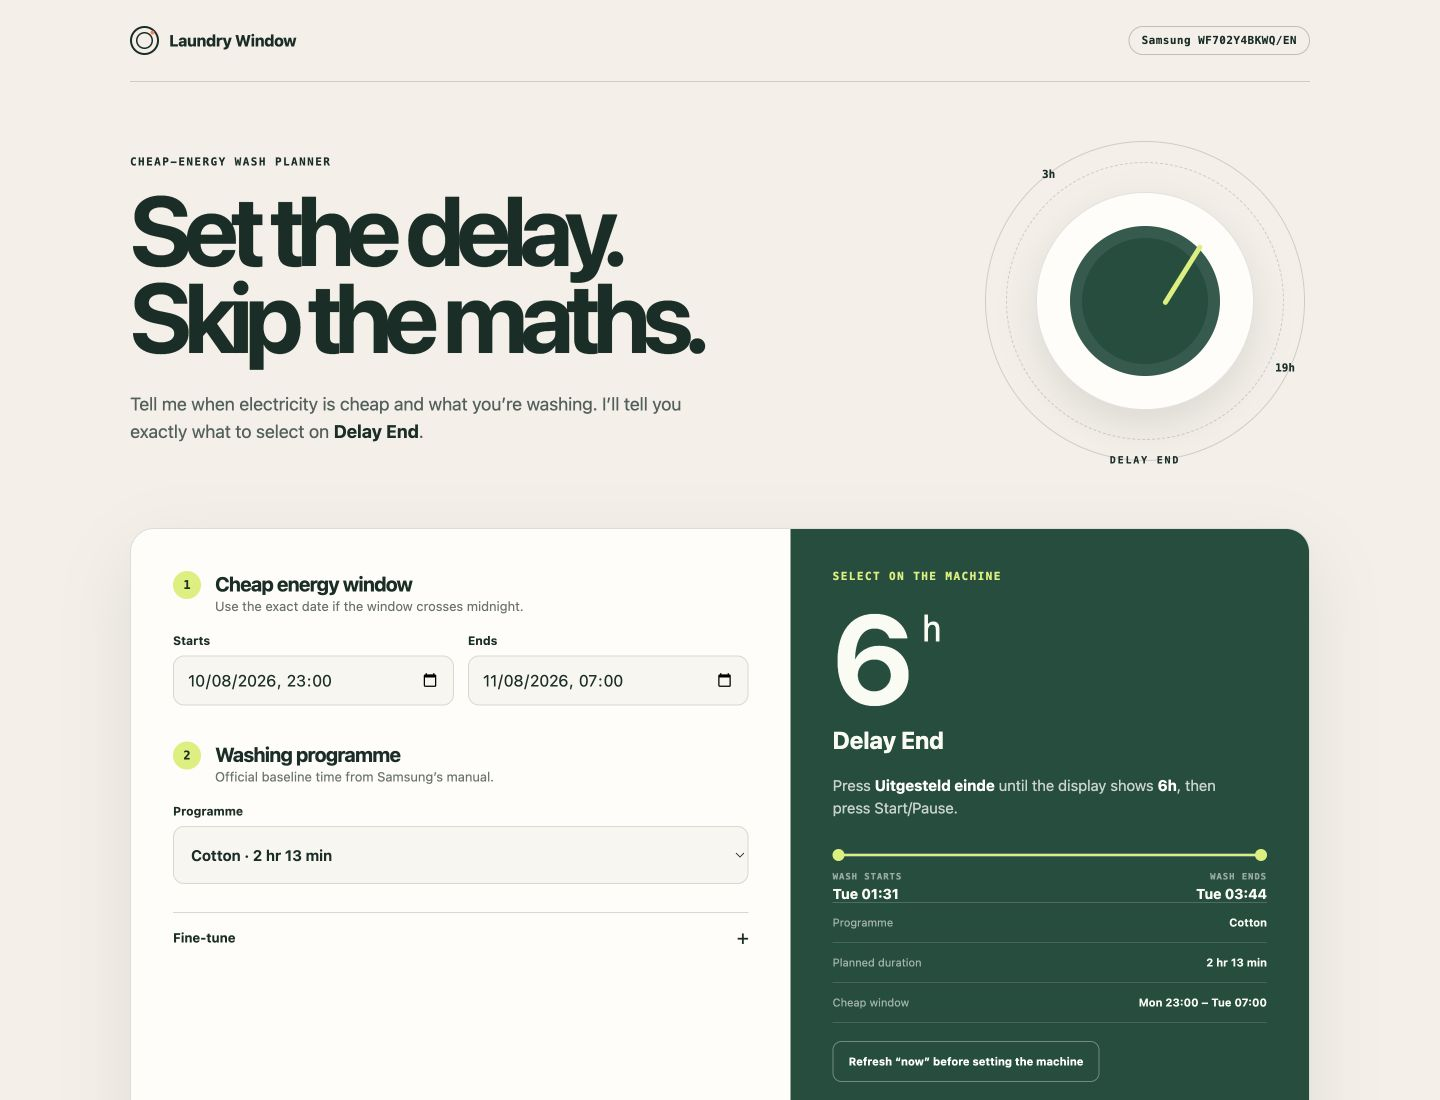
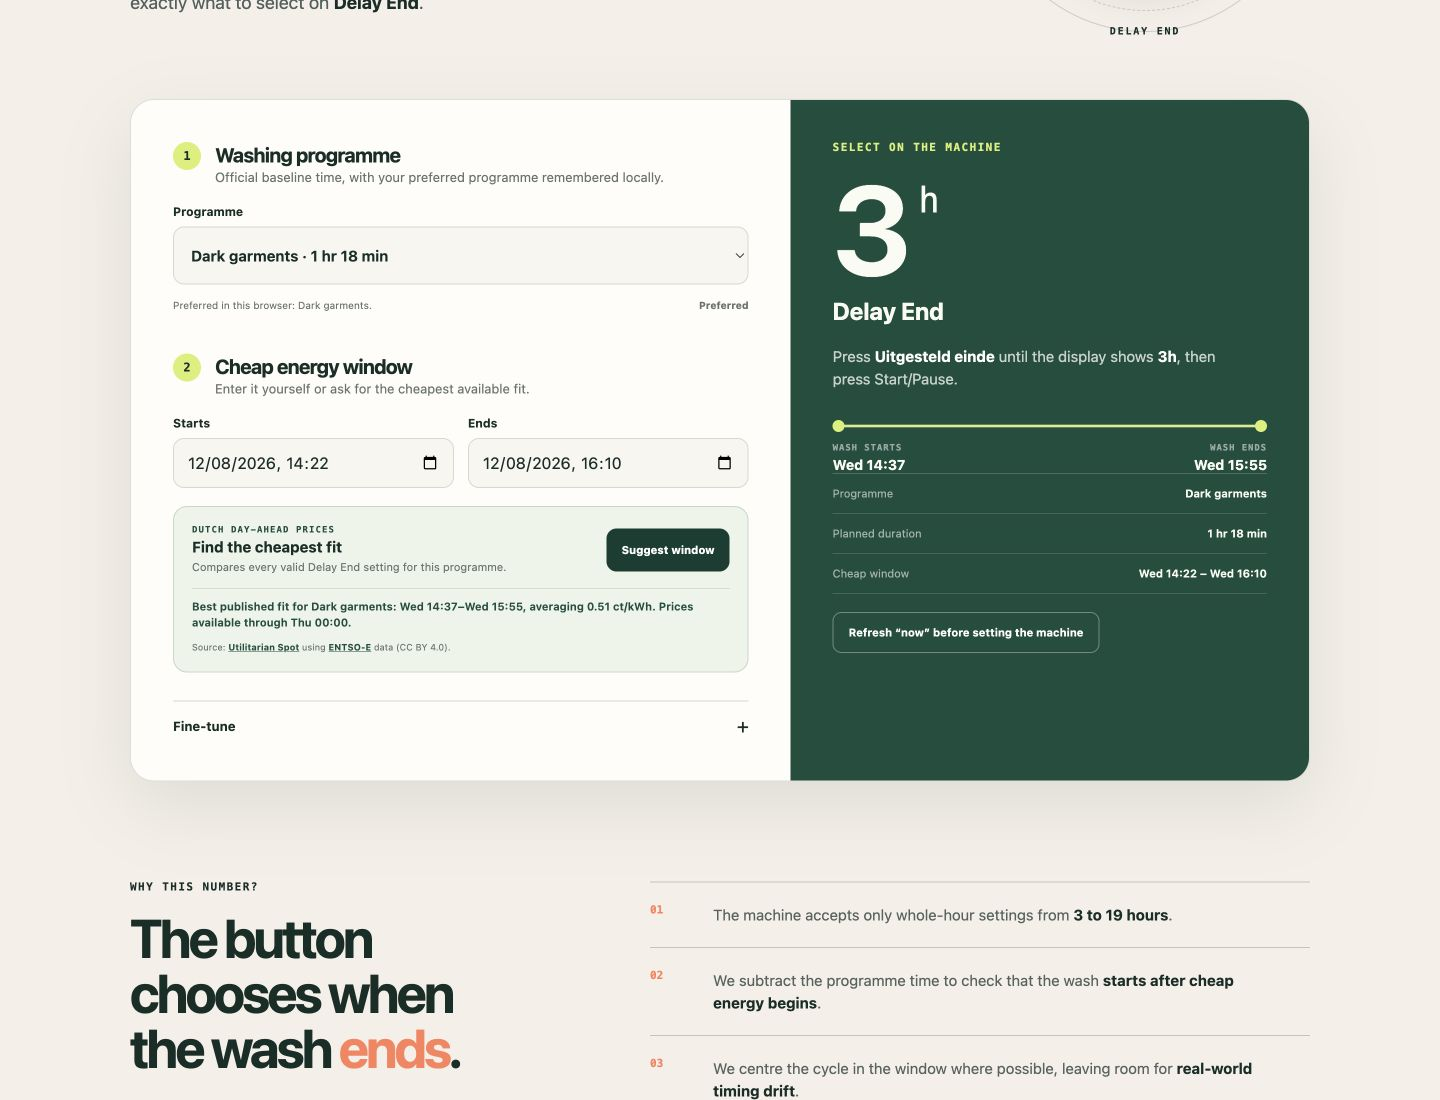
Suggest cheapest wash from live power prices

diff --git a/html/app.js b/html/app.js
@@ -22,9 +22,17 @@
   const form = $("#planner-form");
   const programme = $("#programme");
   const measured = $("#measured-time");
+  const marketButton = $("#suggest-market-window");
+  const marketPrices = window.LaundryMarketPrices;
   let overrides = {};
+  let preferredProgramId = "dark";
+  let suggestionActive = false;
 
   try { overrides = JSON.parse(localStorage.getItem("washer-program-overrides") || "{}"); } catch (_) { overrides = {}; }
+  try {
+    const savedPreference = localStorage.getItem("washer-preferred-program");
+    if (PROGRAMS.some((item) => item.id === savedPreference)) preferredProgramId = savedPreference;
+  } catch (_) {}
 
   function inputValue(date) {
     return new Date(date.getTime() - date.getTimezoneOffset() * minute).toISOString().slice(0, 16);
@@ -60,6 +68,11 @@
     return PROGRAMS.find((item) => item.id === programme.value) || PROGRAMS[0];
   }
 
+  function cycleMinutes() {
+    const selected = currentProgram();
+    return (overrides[selected.id] || selected.minutes) + ($("#prewash").checked ? 18 : 0);
+  }
+
   function fillProgrammes() {
     ["Dial programmes", "Quick wash button"].forEach((groupName) => {
       const group = document.createElement("optgroup");
@@ -72,7 +85,7 @@
       });
       programme.append(group);
     });
-    programme.value = "cotton";
+    programme.value = preferredProgramId;
 
     PROGRAMS.filter((item) => item.group === "Dial programmes").forEach((item) => {
       const row = document.createElement("div");
@@ -92,6 +105,79 @@
     $("#measured-note").textContent = `Saved on this device for ${selected.name}.`;
   }
 
+  function updatePreferenceControls() {
+    const preferred = PROGRAMS.find((item) => item.id === preferredProgramId) || PROGRAMS.find((item) => item.id === "dark");
+    const button = $("#set-preferred-programme");
+    const selectedIsPreferred = programme.value === preferred.id;
+    $("#preferred-programme-label").textContent = `Preferred in this browser: ${preferred.name}.`;
+    button.textContent = selectedIsPreferred ? "Preferred" : "Make selected preferred";
+    button.disabled = selectedIsPreferred;
+  }
+
+  function savePreferredProgram() {
+    preferredProgramId = programme.value;
+    try { localStorage.setItem("washer-preferred-program", preferredProgramId); } catch (_) {}
+    updatePreferenceControls();
+  }
+
+  function setMarketStatus(message, state = "") {
+    const status = $("#market-status");
+    status.textContent = message;
+    status.dataset.state = state;
+  }
+
+  function invalidateSuggestion() {
+    if (!suggestionActive) return;
+    suggestionActive = false;
+    setMarketStatus("The settings changed. Ask again to recalculate the cheapest fit.");
+  }
+
+  function marketPriceText(pricePerMwh) {
+    return new Intl.NumberFormat("en-GB", { minimumFractionDigits: 1, maximumFractionDigits: 2 }).format(pricePerMwh / 10);
+  }
+
+  async function suggestMarketWindow() {
+    const planning = new Date($("#planning-time").value);
+    if (Number.isNaN(planning.getTime())) {
+      setMarketStatus("Choose a valid machine-setting time first.", "error");
+      return;
+    }
+
+    marketButton.disabled = true;
+    marketButton.textContent = "Checking prices…";
+    setMarketStatus("Fetching the latest published Dutch day-ahead prices…");
+
+    try {
+      const response = await fetch(marketPrices.API_URL);
+      if (!response.ok) throw new Error(`Price service returned ${response.status}`);
+      const points = await response.json();
+      const best = marketPrices.findCheapestSchedule(points, planning, cycleMinutes());
+      const intervals = marketPrices.normalisePricePoints(points);
+      if (!intervals.length) throw new Error("The price feed returned no usable values");
+
+      if (!best) {
+        setMarketStatus("No complete wash fits the currently published prices and the machine’s 3–19 hour range. If tomorrow is not available yet, try again after 13:00.", "error");
+        return;
+      }
+
+      const margin = Number($("#safety-margin").value);
+      const windowStart = new Date(best.start - margin * minute);
+      const windowEnd = new Date(best.end + margin * minute);
+      $("#cheap-start").value = inputValue(windowStart);
+      $("#cheap-end").value = inputValue(windowEnd);
+      suggestionActive = true;
+      calculate();
+
+      const availableUntil = new Date(intervals[intervals.length - 1].end);
+      setMarketStatus(`Best published fit for ${currentProgram().name}: ${momentText(new Date(best.start))}–${momentText(new Date(best.end))}, averaging ${marketPriceText(best.average)} ct/kWh. Prices available through ${momentText(availableUntil)}.`, "success");
+    } catch (_) {
+      setMarketStatus("Live prices could not be loaded. Manual window entry still works; please try the suggestion again later.", "error");
+    } finally {
+      marketButton.disabled = false;
+      marketButton.textContent = "Suggest window";
+    }
+  }
+
   function overlap(start, end, windowStart, windowEnd) {
     return Math.max(0, (Math.min(end, windowEnd) - Math.max(start, windowStart)) / minute);
   }
@@ -102,14 +188,14 @@
     const windowEnd = new Date($("#cheap-end").value);
     const selected = currentProgram();
     const margin = Number($("#safety-margin").value);
-    const cycleMinutes = (overrides[selected.id] || selected.minutes) + ($("#prewash").checked ? 18 : 0);
+    const plannedMinutes = cycleMinutes();
 
     if ([planning, windowStart, windowEnd].some((date) => Number.isNaN(date.getTime()))) return renderError("Choose a valid date and time.");
     if (windowEnd <= windowStart) return renderError("The cheap-price end must be after its start.");
 
     const schedules = Array.from({ length: 17 }, (_, index) => index + 3).map((delayHours) => {
       const end = new Date(planning.getTime() + delayHours * hour);
-      const start = new Date(end.getTime() - cycleMinutes * minute);
+      const start = new Date(end.getTime() - plannedMinutes * minute);
       return { delayHours, start, end, overlapMinutes: overlap(start, end, windowStart, windowEnd) };
     });
 
@@ -120,16 +206,16 @@
     if (fitting.length) {
       const centre = (windowStart.getTime() + windowEnd.getTime()) / 2;
       fitting.sort((a, b) => Math.abs((a.start.getTime() + a.end.getTime()) / 2 - centre) - Math.abs((b.start.getTime() + b.end.getTime()) / 2 - centre));
-      return renderSchedule(fitting[0], selected, cycleMinutes, windowStart, windowEnd, true);
+      return renderSchedule(fitting[0], selected, plannedMinutes, windowStart, windowEnd, true);
     }
 
     schedules.sort((a, b) => b.overlapMinutes - a.overlapMinutes);
     let message = "No whole-hour Delay End setting keeps this complete cycle inside the window.";
     const windowMinutes = (windowEnd - windowStart) / minute;
-    if (cycleMinutes + margin * 2 > windowMinutes) message = "This programme is longer than the cheap-price window (including your margin).";
+    if (plannedMinutes + margin * 2 > windowMinutes) message = "This programme is longer than the cheap-price window (including your margin).";
     else if (windowEnd.getTime() < planning.getTime() + 3 * hour) message = "This window ends before the machine’s minimum 3-hour Delay End setting.";
     else if (windowStart.getTime() > planning.getTime() + 19 * hour) message = "This window starts beyond the machine’s 19-hour Delay End limit.";
-    renderSchedule(schedules[0], selected, cycleMinutes, windowStart, windowEnd, false, message, Math.round(schedules[0].overlapMinutes / cycleMinutes * 100));
+    renderSchedule(schedules[0], selected, plannedMinutes, windowStart, windowEnd, false, message, Math.round(schedules[0].overlapMinutes / plannedMinutes * 100));
   }
 
   function renderError(message) {
@@ -163,6 +249,7 @@
   }
 
   function useNow() {
+    invalidateSuggestion();
     $("#planning-time").value = inputValue(new Date());
     calculate();
   }
@@ -174,6 +261,7 @@
   $("#cheap-start").value = inputValue(cheap.start);
   $("#cheap-end").value = inputValue(cheap.end);
   updateMeasuredField();
+  updatePreferenceControls();
 
   $("#advanced-toggle").addEventListener("click", () => {
     const panel = $("#advanced-panel");
@@ -182,15 +270,18 @@
     $("#advanced-toggle span").textContent = panel.hidden ? "+" : "−";
   });
   $("#use-now").addEventListener("click", useNow);
-  programme.addEventListener("change", () => { updateMeasuredField(); calculate(); });
+  $("#set-preferred-programme").addEventListener("click", savePreferredProgram);
+  marketButton.addEventListener("click", suggestMarketWindow);
+  programme.addEventListener("change", () => { invalidateSuggestion(); updateMeasuredField(); updatePreferenceControls(); calculate(); });
   measured.addEventListener("input", () => {
+    invalidateSuggestion();
     const selected = currentProgram();
     const value = Number(measured.value);
     if (measured.value && value > 0) overrides[selected.id] = Math.round(value); else delete overrides[selected.id];
     try { localStorage.setItem("washer-program-overrides", JSON.stringify(overrides)); } catch (_) {}
     calculate();
   });
-  form.addEventListener("input", (event) => { if (event.target !== measured) calculate(); });
+  form.addEventListener("input", (event) => { if (event.target !== measured) { invalidateSuggestion(); calculate(); } });
   form.addEventListener("submit", (event) => event.preventDefault());
   calculate();
 })();

diff --git a/html/styles.css b/html/styles.css
@@ -56,6 +56,22 @@ input, select { width: 100%; min-height: 50px; color: var(--ink); background: #f
 input:focus, select:focus { border-color: var(--green); box-shadow: 0 0 0 3px rgba(23,78,62,.12); }
 .programme-select { display: block; }
 .programme-select select { min-height: 58px; font-weight: 650; font-size: 15px; }
+.programme-preference { margin-top: 9px; display: flex; align-items: center; justify-content: space-between; gap: 14px; color: var(--muted); font-size: 10px; line-height: 1.4; }
+.programme-preference button { flex: 0 0 auto; padding: 5px 0; border: 0; color: var(--green); background: transparent; font-size: 10px; font-weight: 750; }
+.programme-preference button:disabled { color: var(--muted); cursor: default; }
+.market-suggestion { margin-top: 18px; padding: 18px; display: grid; grid-template-columns: 1fr auto; align-items: center; gap: 10px 18px; border: 1px solid rgba(23,78,62,.18); border-radius: 14px; background: #edf4e8; }
+.market-heading { display: grid; gap: 4px; }
+.market-heading > span { color: var(--green); font: 700 9px/1 var(--font-geist-mono), monospace; letter-spacing: .12em; }
+.market-heading strong { font-size: 15px; }
+.market-heading p { margin: 0; color: var(--muted); font-size: 11px; line-height: 1.4; }
+.market-suggestion button { min-height: 43px; padding: 0 15px; border: 0; border-radius: 10px; color: white; background: var(--green); font-size: 11px; font-weight: 750; }
+.market-suggestion button:hover { background: #0f3e31; }
+.market-suggestion button:disabled { cursor: wait; opacity: .65; }
+.market-status { grid-column: 1 / -1; margin: 3px 0 0; padding-top: 10px; border-top: 1px solid rgba(23,78,62,.14); color: #53655e; font-size: 11px; line-height: 1.45; }
+.market-status[data-state="success"] { color: var(--green); font-weight: 650; }
+.market-status[data-state="error"] { color: #8b3c29; }
+.market-suggestion > small { grid-column: 1 / -1; color: var(--muted); font-size: 9px; line-height: 1.4; }
+.market-suggestion a { color: var(--green); font-weight: 700; }
 .advanced-toggle { width: 100%; margin-top: 28px; padding: 17px 0 5px; display: flex; justify-content: space-between; color: var(--ink); background: transparent; border: 0; border-top: 1px solid var(--line); font-size: 13px; font-weight: 700; text-align: left; }
 .advanced-toggle span { font-size: 20px; line-height: .7; font-weight: 400; }
 .advanced-panel { margin-top: 14px; padding: 22px; border-radius: 14px; background: #eeece4; display: grid; gap: 20px; }
@@ -157,6 +173,8 @@ footer { width: min(1180px, calc(100% - 40px)); margin: 0 auto; padding: 28px 0 
   .site-header { padding: 18px 0; }.model-chip { display: none; }
   .hero { min-height: auto; grid-template-columns: 1fr; padding: 46px 0; }.hero h1 { font-size: 58px; }.intro { font-size: 16px; margin-top: 24px; }.dial-art { display: none; }
   .planner { border-radius: 17px; margin-bottom: 70px; }.input-panel, .result-panel { padding: 27px 22px; }.field-grid { grid-template-columns: 1fr; }.programme-heading { margin-top: 30px; }
+  .programme-preference { align-items: flex-start; }
+  .market-suggestion { grid-template-columns: 1fr; }.market-suggestion button { width: 100%; }.market-status, .market-suggestion > small { grid-column: 1; }
   .result-panel { min-height: 600px; }.delay-readout strong { font-size: 110px; }
   .how-it-works { margin-bottom: 60px; }.how-it-works h2 { font-size: 38px; }
   .reference-grid { grid-template-columns: 1fr; }.reference-grid div:nth-child(n) { padding-left: 0; border-left: 0; }

diff --git a/html/index.html b/html/index.html
@@ -7,6 +7,7 @@
   <meta name="theme-color" content="#174e3e">
   <title>Laundry Window · Samsung Delay End calculator</title>
   <link rel="stylesheet" href="styles.css">
+  <script src="market-prices.js" defer></script>
   <script src="app.js" defer></script>
 </head>
 <body>
@@ -37,18 +38,33 @@
       <form class="input-panel" id="planner-form">
         <div class="step-heading">
           <span>1</span>
-          <div><h2>Cheap energy window</h2><p>Use the exact date if the window crosses midnight.</p></div>
+          <div><h2>Washing programme</h2><p>Official baseline time, with your preferred programme remembered locally.</p></div>
+        </div>
+        <label class="programme-select"><span>Programme</span><select id="programme"></select></label>
+        <div class="programme-preference">
+          <span id="preferred-programme-label"></span>
+          <button id="set-preferred-programme" type="button">Make selected preferred</button>
+        </div>
+
+        <div class="step-heading programme-heading">
+          <span>2</span>
+          <div><h2>Cheap energy window</h2><p>Enter it yourself or ask for the cheapest available fit.</p></div>
         </div>
         <div class="field-grid">
           <label><span>Starts</span><input id="cheap-start" type="datetime-local" required></label>
           <label><span>Ends</span><input id="cheap-end" type="datetime-local" required></label>
         </div>
 
-        <div class="step-heading programme-heading">
-          <span>2</span>
-          <div><h2>Washing programme</h2><p>Official baseline time from Samsung’s manual.</p></div>
+        <div class="market-suggestion">
+          <div class="market-heading">
+            <span>DUTCH DAY-AHEAD PRICES</span>
+            <strong>Find the cheapest fit</strong>
+            <p>Compares every valid Delay End setting for this programme.</p>
+          </div>
+          <button id="suggest-market-window" type="button">Suggest window</button>
+          <p class="market-status" id="market-status" aria-live="polite">Fetched only when you ask. Market price excludes tax and supplier fees.</p>
+          <small>Source: <a href="https://spot.utilitarian.io/developer/" rel="noreferrer">Utilitarian Spot</a> using <a href="https://transparency.entsoe.eu/" rel="noreferrer">ENTSO-E</a> data (CC BY 4.0).</small>
         </div>
-        <label class="programme-select"><span>Programme</span><select id="programme"></select></label>
 
         <button class="advanced-toggle" id="advanced-toggle" type="button" aria-expanded="false">Fine-tune <span aria-hidden="true">+</span></button>
         <div class="advanced-panel" id="advanced-panel" hidden>

diff --git a/html/market-prices.js b/html/market-prices.js
@@ -1,0 +1,57 @@
+(() => {
+  "use strict";
+
+  const API_URL = "https://spot.utilitarian.io/electricity/NL/latest/";
+  const minute = 60000;
+  const hour = 60 * minute;
+
+  function normalisePricePoints(rawPoints) {
+    const points = (Array.isArray(rawPoints) ? rawPoints : [])
+      .map((point) => ({ start: new Date(point.timestamp).getTime(), value: Number(point.value) }))
+      .filter((point) => Number.isFinite(point.start) && Number.isFinite(point.value))
+      .sort((a, b) => a.start - b.start)
+      .filter((point, index, all) => index === 0 || point.start !== all[index - 1].start);
+
+    const steps = points.slice(1).map((point, index) => point.start - points[index].start).filter((step) => step > 0);
+    const sortedSteps = [...steps].sort((a, b) => a - b);
+    const fallbackStep = sortedSteps.length ? sortedSteps[Math.floor(sortedSteps.length / 2)] : 15 * minute;
+
+    return points.map((point, index) => ({
+      ...point,
+      end: points[index + 1]?.start || point.start + fallbackStep
+    }));
+  }
+
+  function averagePrice(start, end, intervals) {
+    const duration = end - start;
+    let covered = 0;
+    let weightedPrice = 0;
+
+    intervals.forEach((interval) => {
+      const overlap = Math.max(0, Math.min(end, interval.end) - Math.max(start, interval.start));
+      covered += overlap;
+      weightedPrice += interval.value * overlap;
+    });
+
+    if (duration <= 0 || covered < duration - 1) return null;
+    return weightedPrice / duration;
+  }
+
+  function findCheapestSchedule(rawPoints, planningDate, cycleMinutes) {
+    const planning = new Date(planningDate).getTime();
+    if (!Number.isFinite(planning) || !Number.isFinite(cycleMinutes) || cycleMinutes <= 0) return null;
+
+    const intervals = normalisePricePoints(rawPoints);
+    const candidates = Array.from({ length: 17 }, (_, index) => index + 3).map((delayHours) => {
+      const end = planning + delayHours * hour;
+      const start = end - cycleMinutes * minute;
+      return { delayHours, start, end, average: averagePrice(start, end, intervals) };
+    }).filter((candidate) => candidate.average !== null);
+
+    candidates.sort((a, b) => a.average - b.average || a.delayHours - b.delayHours);
+    return candidates[0] || null;
+  }
+
+  const scope = typeof window === "undefined" ? globalThis : window;
+  scope.LaundryMarketPrices = { API_URL, findCheapestSchedule, normalisePricePoints };
+})();

diff --git a/README.md b/README.md
@@ -4,10 +4,10 @@
 
 A tiny, dependency-free planner for the **Samsung WF702Y4BKWQ/EN** washing machine. Enter a cheap electricity-price window and a washing programme; Laundry Window calculates the whole-hour value to select with the machine's **Delay End / Uitgesteld einde** button.
 
-The calculator runs entirely in the browser. It has no analytics, cookies, server-side code, build step, or package manager. The footer loads the optional Buy Me a Coffee button and its Bree Serif font from third-party CDNs. All publicly served files live under [`html/`](html/); repository documentation, tests, screenshots, and deployment configuration stay outside the web root.
+The calculator runs entirely in the browser. It has no analytics, cookies, server-side code, build step, or package manager. On request, it downloads the latest Dutch day-ahead market-price feed to suggest the cheapest available schedule. The footer loads the optional Buy Me a Coffee button and its Bree Serif font from third-party CDNs. All publicly served files live under [`html/`](html/); repository documentation, tests, screenshots, and deployment configuration stay outside the web root.
 
 > [!NOTE]
-> The footer support button loads JavaScript from `cdnjs.buymeacoffee.com`, loads a font from Google Fonts, and links to `buymeacoffee.com/roels`. The calculator itself does not send your planning data anywhere.
+> The price button fetches the same public Netherlands feed URL for every visitor; programme, timing, and planning values are never added to that request or sent elsewhere. As with any web request, the price provider receives ordinary connection metadata such as the visitor's IP address. The footer support button separately loads JavaScript from `cdnjs.buymeacoffee.com`, loads a font from Google Fonts, and links to `buymeacoffee.com/roels`.
 
 ## Screenshots
 
@@ -26,7 +26,17 @@ The calculator runs entirely in the browser. It has no analytics, cookies, serve
 - A configurable safety margin around the cheap-price window
 - Prewash, which Samsung documents as adding approximately 18 minutes
 - Per-programme measured-time overrides, stored only in the current browser
+- A preferred programme, initially **Dark garments**, stored only in the current browser
+- An optional live suggestion based on published Dutch day-ahead prices
 - A closest-fit suggestion when no setting keeps the complete wash inside the window
+
+## Live market-price suggestions
+
+The **Suggest window** button downloads today’s—and tomorrow’s, once published—Netherlands day-ahead prices from [Utilitarian Spot](https://spot.utilitarian.io/developer/). Its values originate from the ENTSO-E Transparency Platform and are supplied in `€/MWh` at the market’s available resolution, currently 15 minutes for the Netherlands.
+
+Laundry Window evaluates the real duration of the selected programme against every whole-hour Delay End choice from 3–19 hours. It recommends the complete cycle with the lowest duration-weighted average market price, then fills the manual window fields so the normal calculator remains the source of the displayed washer setting.
+
+The displayed figure is the wholesale market component, converted to cents per kWh. It excludes energy tax, VAT, supplier markups, and other contract costs. Fixed additions do not change which interval is cheapest, but users should still treat the result as a planning suggestion rather than an exact retail-price quote. The external feed is best-effort; manual entry remains available if it is late or unavailable.
 
 ## Compatibility
 
@@ -98,7 +108,8 @@ Samsung notes that actual cycle time can vary with water pressure and temperatur
 ├── html/                    # Complete and only public web root
 │   ├── index.html           # Website structure
 │   ├── styles.css           # Responsive design
-│   └── app.js               # Programme data and calculation
+│   ├── app.js               # Programme data and Delay End calculation
+│   └── market-prices.js     # Browser-only market-price optimiser
 ├── nginx/                   # Example nginx vhost
 ├── docs/SOURCES.md          # Appliance documentation and caveats
 ├── screenshots/             # Real desktop and mobile captures

diff --git a/docs/SOURCES.md b/docs/SOURCES.md
@@ -34,3 +34,15 @@ No compatibility is currently claimed for other Samsung ranges or other brands. 
 The manual says the listed durations were measured under IEC 60456 / EN 60456 conditions. Samsung warns that actual values can differ due to water pressure and temperature, load, and fabric type. The Intensive option extends every cycle, but the manual does not specify a fixed duration.
 
 Laundry Window therefore centres a cycle within the selected cheap-energy window when possible and applies a 15-minute margin by default. Users can store a measured duration for each programme in their own browser. Those overrides never leave the device.
+
+## Market-price source
+
+The optional live suggestion uses the public Netherlands endpoint from [Utilitarian Spot](https://spot.utilitarian.io/developer/):
+
+`https://spot.utilitarian.io/electricity/NL/latest/`
+
+The provider documents that the endpoint needs no API key, enables browser CORS requests, contains today and tomorrow when the day-ahead data is published, and returns timestamps in UTC with prices in `€/MWh`. It attributes the underlying records to the [ENTSO-E Transparency Platform](https://transparency.entsoe.eu/) under [CC BY 4.0](https://creativecommons.org/licenses/by/4.0/) and describes the service as best-effort without uptime or accuracy guarantees.
+
+Laundry Window fetches the endpoint only after the user presses **Suggest window**. No selected programme, time, measured duration, or other browser-stored setting is included in the request. The optimiser compares only complete cycles permitted by the washing machine’s 3–19 hour Delay End choices and weights every covered market interval by the amount of the cycle that overlaps it.
+
+The result is a market-price signal, not a complete consumer tariff. Taxes, VAT, supplier markups, and other contract-specific components are excluded.
